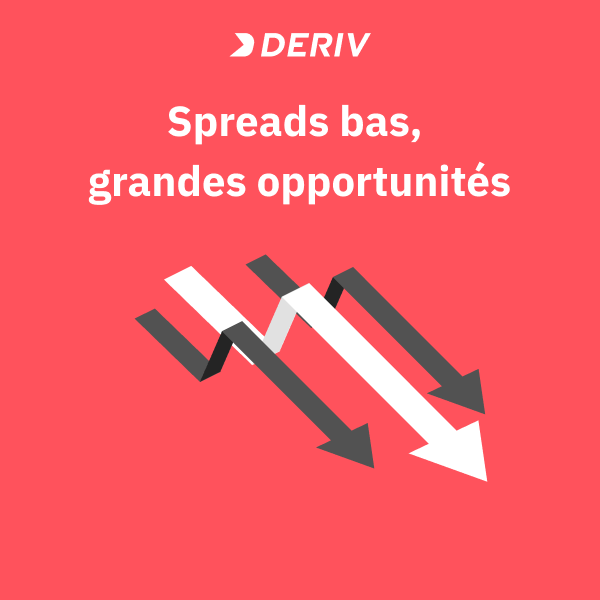
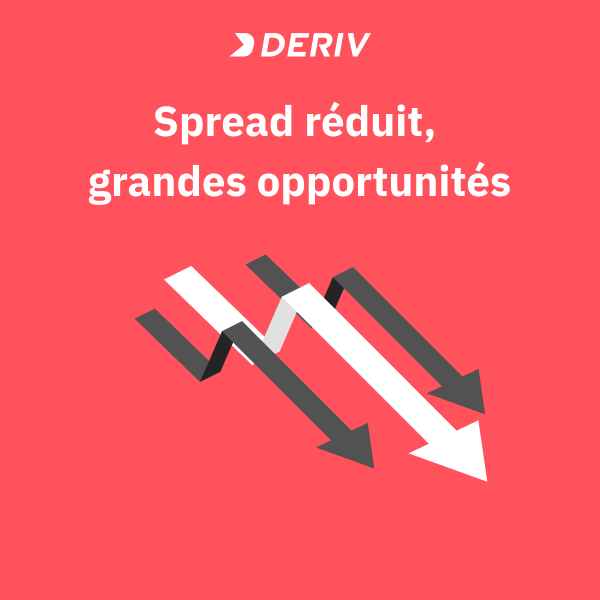
fx spread 3 lang

Changed region(s): [[0.24, 0.15, 0.72, 0.24]]

diff --git a/email/templates/marketing/fx-steps-fr.html b/email/templates/marketing/fx-steps-fr.html
@@ -343,17 +343,12 @@
                     <table  border="0" cellpadding="0" cellspacing="0" width="100%" style="background-color: #ffffff; max-width: 600px;" class="darkmodeblack">
                         <tr>
                             <td align="left" style="padding: 30px 30px 8px; background-color: #ffffff;" class="mobile-side darkmodeblack">
-                                <p style="font-family: 'IBM Plex Sans', Arial, sans-serif; font-size: 16px; line-height: 1.5 ; color: #333333; font-weight: 400;margin:0;" class="darkcolor-subtext">Salut [name],</p>
-                            </td>
-                        </tr>
-                        <tr>
-                            <td align="left" style="padding: 5px 30px 8px; background-color: #ffffff;" class="mobile-side darkmodeblack">
                                 <p style="font-family: 'IBM Plex Sans', Arial, sans-serif; font-size: 16px; line-height: 1.5 ; color: #333333; font-weight: 400;margin:0;" class="darkcolor-subtext">Merci d’avoir choisi Deriv! Nous sommes ravis que vous trader avec nous.</p>
                             </td>
                         </tr>
                         <tr>
                             <td align="left" style="padding: 2px 30px 25px; background-color: #ffffff;" class="mobile-side darkmodeblack">
-                                <p style="font-family: 'IBM Plex Sans', Arial, sans-serif; font-size: 16px; line-height: 1.5 ; color: #333333; font-weight: 400;margin:0;" class="darkcolor-subtext">Nos faibles spreads sur les paires de devises vous donneront une excellente opportunité d'ouvrir des transactions CFD à un coût beaucoup plus bas et de profiter d'autres grands avantages:</p>
+                                <p style="font-family: 'IBM Plex Sans', Arial, sans-serif; font-size: 16px; line-height: 1.5 ; color: #333333; font-weight: 400;margin:0;" class="darkcolor-subtext">Nos spreads réduit sur les paires de devises vous donneront une excellente opportunité d'ouvrir des transactions CFD à un coût beaucoup plus bas et de profiter d'autres grands avantages:</p>
                             </td>
                         </tr>
                         <tr>

diff --git a/email/templates/simple/fx-platforms-fr.html b/email/templates/simple/fx-platforms-fr.html
@@ -286,12 +286,7 @@
                     <![endif]-->
                     <table  border="0" cellpadding="0" cellspacing="0" width="100%" style="background-color: #ffffff; max-width: 600px;">
                         <tr>
-                            <td align="left" style="padding: 36px 28px 10px; background-color: #fff;" class="mobile-side darkmodeblack">
-                                <p style="font-family: 'IBM Plex Sans', Arial, sans-serif; color: #333333; font-size: 16px; font-weight: 400; line-height: 24px; margin: 0px;" class="darkcolor-subtext">Salut [name],</p>
-                            </td>
-                        </tr>
-                        <tr>
-                            <td align="left" style="padding: 5px 28px 10px; background-color: #fff;" class="mobile-side darkmodeblack">
+                            <td align="left" style="padding: 35px 28px 10px; background-color: #fff;" class="mobile-side darkmodeblack">
                                 <p style="font-family: 'IBM Plex Sans', Arial, sans-serif; color: #333333; font-size: 16px; font-weight: 400; line-height: 24px; margin: 0px;" class="darkcolor-subtext">Nous espérons que vous profitez pleinement de votre expérience de trading forex avec nous et nous aimerions vous offrir encore plus!</p>
                             </td>
                         </tr>

diff --git a/email/templates/simple/fx-platforms-pt.html b/email/templates/simple/fx-platforms-pt.html
@@ -286,12 +286,7 @@
                     <![endif]-->
                     <table  border="0" cellpadding="0" cellspacing="0" width="100%" style="background-color: #ffffff; max-width: 600px;">
                         <tr>
-                            <td align="left" style="padding: 36px 28px 10px; background-color: #fff;" class="mobile-side darkmodeblack">
-                                <p style="font-family: 'IBM Plex Sans', Arial, sans-serif; color: #333333; font-size: 16px; font-weight: 400; line-height: 24px; margin: 0px;" class="darkcolor-subtext">Olá [name],</p>
-                            </td>
-                        </tr>
-                        <tr>
-                            <td align="left" style="padding: 5px 28px 10px; background-color: #fff;" class="mobile-side darkmodeblack">
+                            <td align="left" style="padding: 35px 28px 10px; background-color: #fff;" class="mobile-side darkmodeblack">
                                 <p style="font-family: 'IBM Plex Sans', Arial, sans-serif; color: #333333; font-size: 16px; font-weight: 400; line-height: 24px; margin: 0px;" class="darkcolor-subtext">Esperamos que você esteja gostando de sua jornada de negociação em forex conosco e gostaríamos de lhe oferecer ainda mais opções!</p>
                             </td>
                         </tr>

diff --git a/email/templates/simple/fx-platforms-es.html b/email/templates/simple/fx-platforms-es.html
@@ -286,12 +286,7 @@
                     <![endif]-->
                     <table  border="0" cellpadding="0" cellspacing="0" width="100%" style="background-color: #ffffff; max-width: 600px;">
                         <tr>
-                            <td align="left" style="padding: 36px 28px 10px; background-color: #fff;" class="mobile-side darkmodeblack">
-                                <p style="font-family: 'IBM Plex Sans', Arial, sans-serif; color: #333333; font-size: 16px; font-weight: 400; line-height: 24px; margin: 0px;" class="darkcolor-subtext">Hola [name],</p>
-                            </td>
-                        </tr>
-                        <tr>
-                            <td align="left" style="padding: 5px 28px 10px; background-color: #fff;" class="mobile-side darkmodeblack">
+                            <td align="left" style="padding: 35px 28px 10px; background-color: #fff;" class="mobile-side darkmodeblack">
                                 <p style="font-family: 'IBM Plex Sans', Arial, sans-serif; color: #333333; font-size: 16px; font-weight: 400; line-height: 24px; margin: 0px;" class="darkcolor-subtext">Esperamos que estés disfrutando de tu viaje en el mercado forex con nosotros y nos gustaría ofrecerte mucho más.</p>
                             </td>
                         </tr>

diff --git a/email/templates/marketing/fx-steps-pt.html b/email/templates/marketing/fx-steps-pt.html
@@ -343,11 +343,6 @@
                     <table  border="0" cellpadding="0" cellspacing="0" width="100%" style="background-color: #ffffff; max-width: 600px;" class="darkmodeblack">
                         <tr>
                             <td align="left" style="padding: 30px 30px 8px; background-color: #ffffff;" class="mobile-side darkmodeblack">
-                                <p style="font-family: 'IBM Plex Sans', Arial, sans-serif; font-size: 16px; line-height: 1.5 ; color: #333333; font-weight: 400;margin:0;" class="darkcolor-subtext">Olá [name],</p>
-                            </td>
-                        </tr>
-                        <tr>
-                            <td align="left" style="padding: 5px 30px 8px; background-color: #ffffff;" class="mobile-side darkmodeblack">
                                 <p style="font-family: 'IBM Plex Sans', Arial, sans-serif; font-size: 16px; line-height: 1.5 ; color: #333333; font-weight: 400;margin:0;" class="darkcolor-subtext">Obrigado por escolher a Deriv! Estamos felizes por ter você negociando conosco.</p>
                             </td>
                         </tr>

diff --git a/email/templates/marketing/fx-steps-es.html b/email/templates/marketing/fx-steps-es.html
@@ -344,11 +344,6 @@
                     <table  border="0" cellpadding="0" cellspacing="0" width="100%" style="background-color: #ffffff; max-width: 600px;" class="darkmodeblack">
                         <tr>
                             <td align="left" style="padding: 30px 30px 8px; background-color: #ffffff;" class="mobile-side darkmodeblack">
-                                <p style="font-family: 'IBM Plex Sans', Arial, sans-serif; font-size: 16px; line-height: 1.5 ; color: #333333; font-weight: 400;margin:0;" class="darkcolor-subtext">Hola [name],</p>
-                            </td>
-                        </tr>
-                        <tr>
-                            <td align="left" style="padding: 5px 30px 8px; background-color: #ffffff;" class="mobile-side darkmodeblack">
                                 <p style="font-family: 'IBM Plex Sans', Arial, sans-serif; font-size: 16px; line-height: 1.5 ; color: #333333; font-weight: 400;margin:0;" class="darkcolor-subtext">¡Gracias por elegir Deriv! Estamos emocionados de que operes con nosotros.</p>
                             </td>
                         </tr>

diff --git a/email/templates/simple/fx-knowledge-es.html b/email/templates/simple/fx-knowledge-es.html
@@ -1,4 +1,4 @@
-<!DOCTYPE html>
+<!DOCTYPE  html>
 <html lang="en" xmlns="http://www.w3.org/1999/xhtml" xmlns:v="urn:schemas-microsoft-com:vml" xmlns:o="urn:schemas-microsoft-com:office:office">
     <head>
         <meta name="color-scheme" content="light dark">

diff --git a/email/templates/simple/fx-knowledge-fr.html b/email/templates/simple/fx-knowledge-fr.html
@@ -1,4 +1,4 @@
-<!DOCTYPE html>
+<!DOCTYPE  html>
 <html lang="en" xmlns="http://www.w3.org/1999/xhtml" xmlns:v="urn:schemas-microsoft-com:vml" xmlns:o="urn:schemas-microsoft-com:office:office">
     <head>
         <meta name="color-scheme" content="light dark">

diff --git a/email/templates/simple/fx-knowledge-pt.html b/email/templates/simple/fx-knowledge-pt.html
@@ -1,4 +1,4 @@
-<!DOCTYPE html>
+<!DOCTYPE  html>
 <html lang="en" xmlns="http://www.w3.org/1999/xhtml" xmlns:v="urn:schemas-microsoft-com:vml" xmlns:o="urn:schemas-microsoft-com:office:office">
     <head>
         <meta name="color-scheme" content="light dark">
